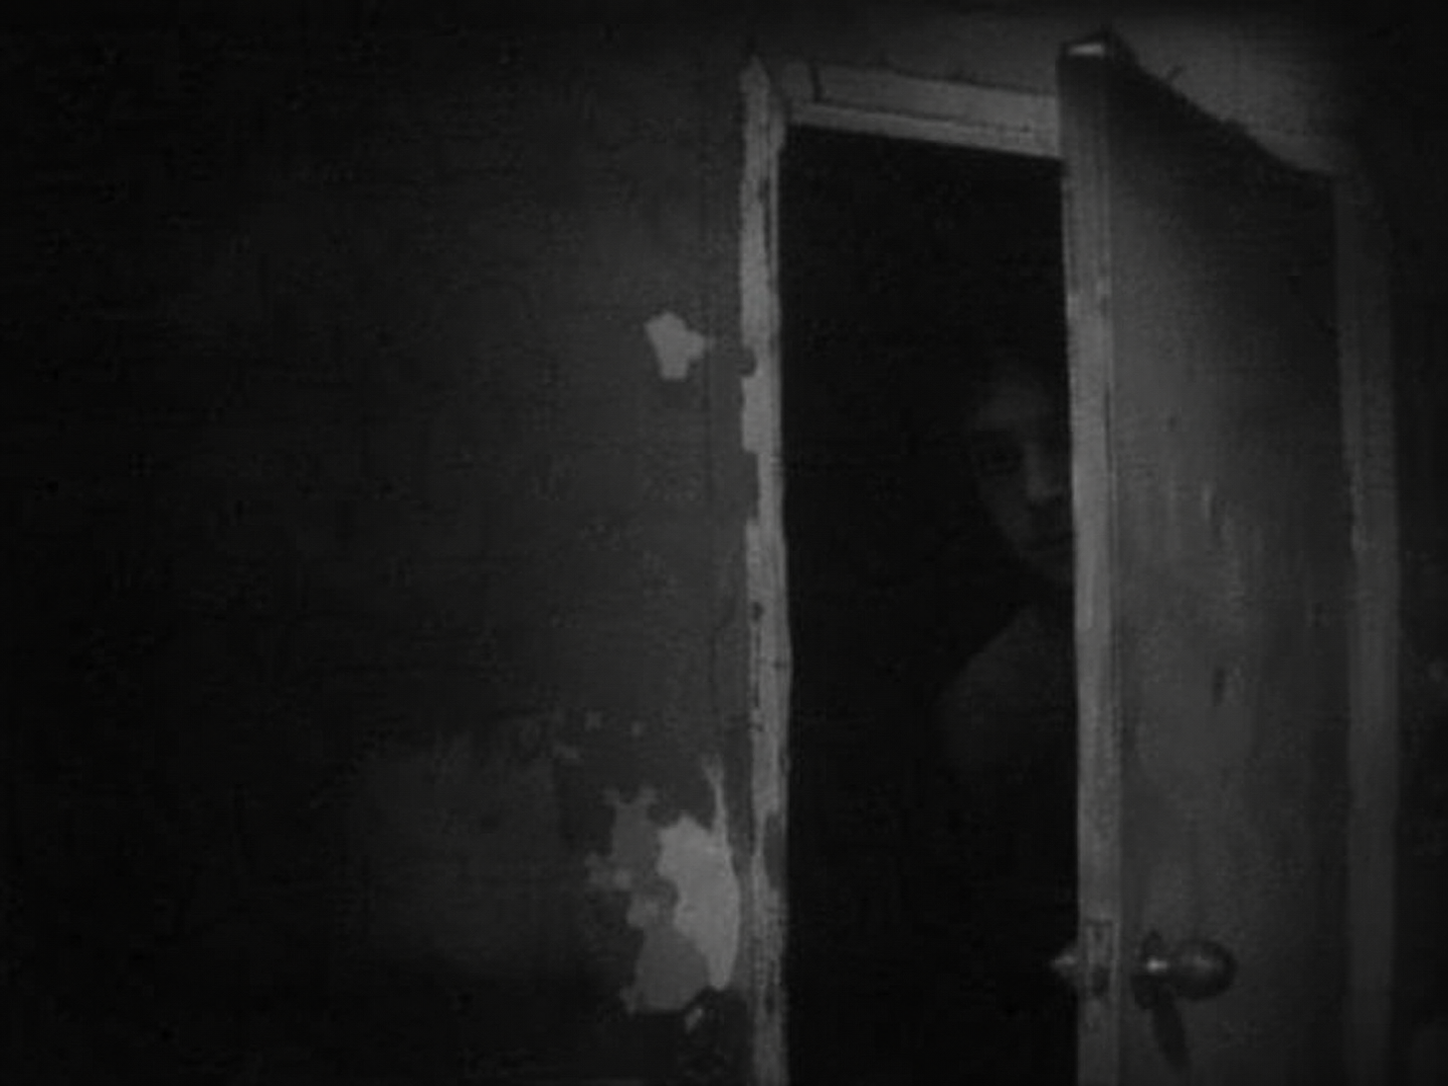
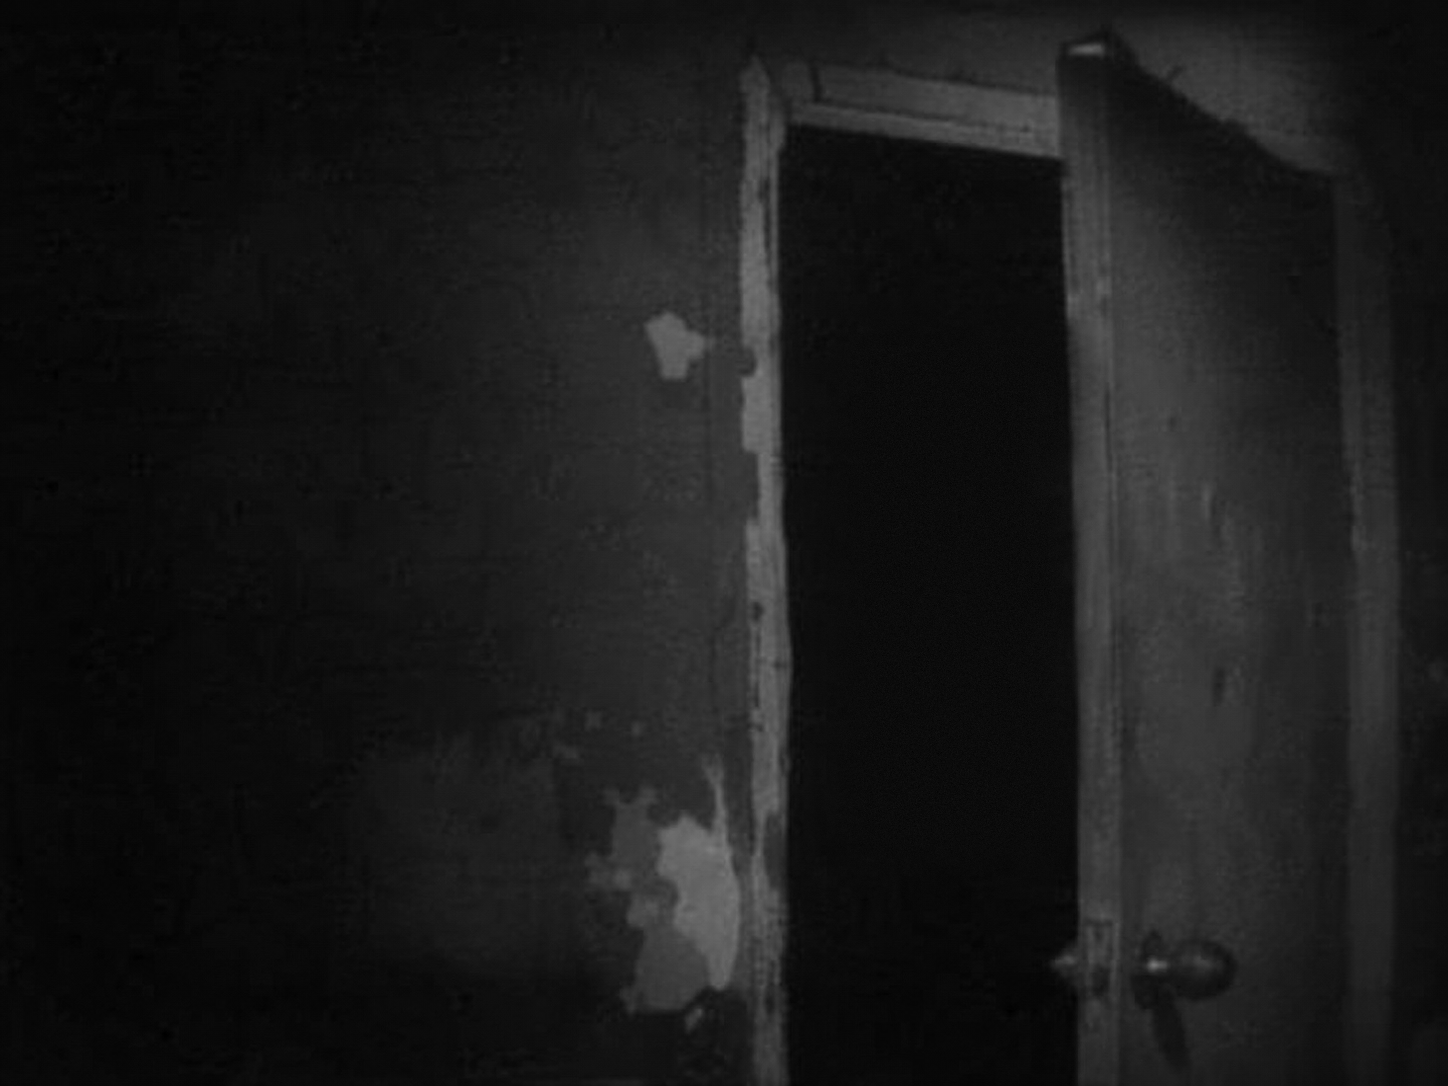
Give every tape a label and a reason to be where it is
Tapes now carry a found-footage label (CAM_09 · PASILLO B, CINTA 04 ·
DESDE EL FONDO DEL POZO, CINTA 06 · LA ÚLTIMA VISITA, CINTA 05 ·
SELLO, CINTA 03 · NO REPRODUCIR) that also says what the tape is
doing: "sintonizando…" while the heavy GIF downloads and "en pausa ·
calma" when it is held still on purpose, so a still never looks like
a broken GIF. GIFs start loading 240 px before they scroll into view.

The archive tape (static with a figure in it) becomes the live monitor
of camera 09 in corridor B, with REC and the camera's own clock. The
creature behind the interior is visible now, faintly breathing.

Changed region(s): [[0.6837, 0.3039, 0.7769, 0.7597]]

diff --git a/index.html b/index.html
@@ -9,10 +9,10 @@
   <meta name="description" content="Archivo residual de la Estación 09. La transmisión continúa.">
   <title>ESTACIÓN 09 — señal residual</title>
   <link rel="icon" href="assets/sigil.svg" type="image/svg+xml">
-  <link rel="stylesheet" href="style.css?v=referencias-6">
-  <script src="app.js?v=referencias-6" defer></script>
-  <link rel="stylesheet" href="interior.css?v=referencias-6">
-  <script src="interior.js?v=referencias-6" defer></script>
+  <link rel="stylesheet" href="style.css?v=lore-1">
+  <script src="app.js?v=lore-1" defer></script>
+  <link rel="stylesheet" href="interior.css?v=lore-1">
+  <script src="interior.js?v=lore-1" defer></script>
 </head>
 <body data-page="inicio">
   <a class="skip" href="#archivo">Saltar al archivo</a>
@@ -84,7 +84,7 @@
         </section>
         <section id="view-fragmentos" class="view">
           <div class="breadcrumb"><span>root / public / umbral</span><span class="file-id">[ E09—000 ]</span></div>
-          <figure class="rune-tape" data-reveal><img class="" src="assets/gif-stills/5.png" data-gif="gifs/giphy%20(5).gif" data-still="assets/gif-stills/5.png" width="380" height="380" alt="Un símbolo de trazos blancos que gira sobre una textura granulada." decoding="async"></figure><details class="vestiges"><summary>vestigios</summary><div class="vestige-wall">
+          <figure class="rune-tape" data-reveal data-tape="CINTA 05 · SELLO"><img class="" src="assets/gif-stills/5.png" data-gif="gifs/giphy%20(5).gif" data-still="assets/gif-stills/5.png" width="380" height="380" alt="Un símbolo de trazos blancos que gira sobre una textura granulada." decoding="async"></figure><details class="vestiges"><summary>vestigios</summary><div class="vestige-wall">
 <button data-vision="0cef067d6389316753e85350caa85388.jpg" aria-label="Observar vestigio 1"><img loading="lazy" src="images/0cef067d6389316753e85350caa85388.jpg" class="dark-source" alt=""></button>
 <button data-vision="2ce73613d01a7712d49bed29d90d0f45.jpg" aria-label="Observar vestigio 2"><img loading="lazy" src="images/2ce73613d01a7712d49bed29d90d0f45.jpg" class="ink-source" alt=""></button>
 <button data-vision="3e0d7102c286a0afe144cd9858fbc4d3.jpg" aria-label="Observar vestigio 3"><img loading="lazy" src="images/3e0d7102c286a0afe144cd9858fbc4d3.jpg" class="ink-source" alt=""></button>
@@ -118,12 +118,12 @@
           </details>
           <div class="bottom-note"><span>“No todo lo que está en la red quiere ser <a class="hidden-door" href="#descenso">encontrado</a>.”</span><span>ESTÁS EN LA CAPA 00</span></div>
         </section>
-        <section id="view-archivo" class="view" hidden><div class="breadcrumb"><span>root / public / archivo</span><span>[ E09—001 ]</span></div><div class="page-intro"><p class="eyebrow">fragmentos</p><h1>Lo que <em>queda.</em></h1><p>Los archivos no están ordenados. Algunos no quieren estarlo.</p></div><img class="archive-talisman ink-source" data-reveal src="images/8f0201d49a7c7816a5ed7256f6f4bee1.jpg" width="736" height="736" alt="Ojo encerrado en cinco pétalos oscuros."><div class="archive-transmission" data-reveal><img class="archive-tape" src="assets/gif-stills/1.png" data-gif="gifs/giphy%20(1).gif" data-still="assets/gif-stills/1.png" width="480" height="270" alt="Una secuencia deteriorada de ojos y texturas." decoding="async"></div><div id="archive-list"></div><p class="archive-foot">FIN DEL ÍNDICE RECUPERABLE · <span id="unlock-status">NIVEL 00</span></p></section>
-        <section id="view-transmisiones" class="view" hidden><div class="breadcrumb"><span>root / public / transmisiones</span><span>[ E09—002 ]</span></div><div class="page-intro"><p class="eyebrow">FRECUENCIA 09.8 / SEÑAL RESIDUAL</p><h1>¿Hay <em>alguien?</em></h1><p>Reproducción de la última transmisión. El receptor sigue abierto.</p></div><figure class="haunted-screen" data-reveal><button class="signal-reveal" aria-label="Sintonizar la imagen">⌁</button><span class="signal-word" role="status" hidden></span><img class="" src="assets/gif-stills/4.png" data-gif="gifs/giphy%20(4).gif" data-still="assets/gif-stills/4.png" width="480" height="270" alt="Una emisión en blanco y negro, con dibujos que atraviesan un monitor antiguo." decoding="async"></figure><div class="transmission"><div class="wave" aria-hidden="true"></div><p>17.11.1998 — 03:33:09</p><details class="lore-fold"><summary>lo recibido</summary><blockquote>«Si esto llega a alguien… no bajéis al subsuelo.<br>Lo que responde tiene nuestra voz.»</blockquote></details><button id="transmission-play" class="enter-button">ESCUCHAR FRECUENCIA <span>▷</span></button><small id="transmission-status" role="status">Audio sintetizado · volumen bajo recomendado.</small></div><details class="lore-fold"><summary>transcripción</summary><div class="transcript"><p><span>03:32:51</span> [interferencia]</p><p><span>03:33:02</span> ¿Por qué la cámara sigue grabando?</p><p><span>03:33:07</span> No somos nosotros.</p><p><span>03:33:09</span> [fin de la transmisión]</p></div></details></section>
-        <section id="view-visitantes" class="view" hidden><div class="breadcrumb"><span>root / public / visitantes</span><span>[ E09—003 ]</span></div><div class="page-intro"><p class="eyebrow">LIBRO DE VISITAS / COPIA LOCAL</p><h1>Deja una <em>señal.</em></h1><p>Para que alguien sepa que estuviste aquí.</p></div><img class="visitor-talisman ink-source" data-reveal src="images/bdd5c1dd86d84a0fc78f47a880610902.jpg" width="298" height="264" alt="Mano dibujada que encierra un ojo."><figure class="visitor-screen" data-reveal><img class="" src="assets/gif-stills/6.png" data-gif="gifs/giphy%20(6).gif" data-still="assets/gif-stills/6.png" width="384" height="384" alt="Una figura sentada, interrumpida por interferencias de cinta." decoding="async"></figure><div id="guest-messages" class="guest-messages"></div><form id="guest-form" class="guest-form"><label for="guest-name">ALIAS</label><input id="guest-name" name="alias" maxlength="32" placeholder="anónimo" autocomplete="off"><label for="guest-message">TU SEÑAL</label><textarea id="guest-message" name="message" maxlength="500" required rows="3" placeholder="¿También has oído algo?"></textarea><button type="submit" class="enter-button">DEJAR RASTRO <span>↗</span></button><small>Las señales nuevas se guardan solo en este navegador.</small><p id="guest-status" role="status"></p></form></section>
+        <section id="view-archivo" class="view" hidden><div class="breadcrumb"><span>root / public / archivo</span><span>[ E09—001 ]</span></div><div class="page-intro"><p class="eyebrow">fragmentos</p><h1>Lo que <em>queda.</em></h1><p>Los archivos no están ordenados. Algunos no quieren estarlo.</p></div><img class="archive-talisman ink-source" data-reveal src="images/8f0201d49a7c7816a5ed7256f6f4bee1.jpg" width="736" height="736" alt="Ojo encerrado en cinco pétalos oscuros."><div class="archive-transmission cam-monitor" data-reveal data-tape="CAM_09 · PASILLO B · EN DIRECTO"><img class="archive-tape" src="assets/gif-stills/1.png" data-gif="gifs/giphy%20(1).gif" data-still="assets/gif-stills/1.png" width="480" height="270" alt="La cámara del pasillo B en directo: estática y, en medio, una silueta que no se mueve." decoding="async"><span class="cam-rec" aria-hidden="true">● REC</span><span class="cam-time" aria-hidden="true">17.11.1998 <span class="cam-clock">03:33:09</span></span></div><div id="archive-list"></div><p class="archive-foot">FIN DEL ÍNDICE RECUPERABLE · <span id="unlock-status">NIVEL 00</span></p></section>
+        <section id="view-transmisiones" class="view" hidden><div class="breadcrumb"><span>root / public / transmisiones</span><span>[ E09—002 ]</span></div><div class="page-intro"><p class="eyebrow">FRECUENCIA 09.8 / SEÑAL RESIDUAL</p><h1>¿Hay <em>alguien?</em></h1><p>Reproducción de la última transmisión. El receptor sigue abierto.</p></div><figure class="haunted-screen" data-reveal data-tape="CINTA 04 · DESDE EL FONDO DEL POZO"><button class="signal-reveal" aria-label="Sintonizar la imagen">⌁</button><span class="signal-word" role="status" hidden></span><img class="" src="assets/gif-stills/4.png" data-gif="gifs/giphy%20(4).gif" data-still="assets/gif-stills/4.png" width="480" height="270" alt="Una emisión en blanco y negro, con dibujos que atraviesan un monitor antiguo." decoding="async"></figure><div class="transmission"><div class="wave" aria-hidden="true"></div><p>17.11.1998 — 03:33:09</p><details class="lore-fold"><summary>lo recibido</summary><blockquote>«Si esto llega a alguien… no bajéis al subsuelo.<br>Lo que responde tiene nuestra voz.»</blockquote></details><button id="transmission-play" class="enter-button">ESCUCHAR FRECUENCIA <span>▷</span></button><small id="transmission-status" role="status">Audio sintetizado · volumen bajo recomendado.</small></div><details class="lore-fold"><summary>transcripción</summary><div class="transcript"><p><span>03:32:51</span> [interferencia]</p><p><span>03:33:02</span> ¿Por qué la cámara sigue grabando?</p><p><span>03:33:07</span> No somos nosotros.</p><p><span>03:33:09</span> [fin de la transmisión]</p></div></details></section>
+        <section id="view-visitantes" class="view" hidden><div class="breadcrumb"><span>root / public / visitantes</span><span>[ E09—003 ]</span></div><div class="page-intro"><p class="eyebrow">LIBRO DE VISITAS / COPIA LOCAL</p><h1>Deja una <em>señal.</em></h1><p>Para que alguien sepa que estuviste aquí.</p></div><img class="visitor-talisman ink-source" data-reveal src="images/bdd5c1dd86d84a0fc78f47a880610902.jpg" width="298" height="264" alt="Mano dibujada que encierra un ojo."><figure class="visitor-screen" data-reveal data-tape="CINTA 06 · LA ÚLTIMA VISITA"><img class="" src="assets/gif-stills/6.png" data-gif="gifs/giphy%20(6).gif" data-still="assets/gif-stills/6.png" width="384" height="384" alt="Una figura sentada, interrumpida por interferencias de cinta." decoding="async"></figure><div id="guest-messages" class="guest-messages"></div><form id="guest-form" class="guest-form"><label for="guest-name">ALIAS</label><input id="guest-name" name="alias" maxlength="32" placeholder="anónimo" autocomplete="off"><label for="guest-message">TU SEÑAL</label><textarea id="guest-message" name="message" maxlength="500" required rows="3" placeholder="¿También has oído algo?"></textarea><button type="submit" class="enter-button">DEJAR RASTRO <span>↗</span></button><small>Las señales nuevas se guardan solo en este navegador.</small><p id="guest-status" role="status"></p></form></section>
         <section id="view-descenso" class="view descent" hidden aria-labelledby="descent-title"><h1 id="descent-title" class="visually-hidden">El descenso</h1><div class="descent-sigils" aria-hidden="true"><span>ᛉ</span><span>ᚦ</span><span>ᛇ</span><span>ᛟ</span></div><div class="descent-panel intro" data-reveal><p>Ｌａ　Ｅｓｔａｃｉóｎ　０９　ｓｏｌｏ　ｐｕｅｄｅ　ｒｅｃｏｒｒｅｒｓｅ　ｈａｃｉａ　ａｂａｊｏ．</p><p>Ｃｌａｓｉｆｉｃａｃｉóｎ　ａｃｔｕａｌ　ｄｅ　ｌａ　ｓｏｎｄａ：　００．</p></div><div class="descent-gap" style="--gap:2" aria-hidden="true"></div><div class="descent-panel " data-reveal><p>Ｎｏ　ｔｉｅｎｅｓ　ｎｉｎｇｕｎａ　ｐｏｓｉｂｉｌｉｄａｄ　ｄｅ　ｓａｌｉｒ　ｄｅ　ａｑｕí．</p><p>Ｖｕｅｌｖｅ　ａｔｒáｓ　ａｈｏｒａ，　ｍｉｅｎｔｒａｓ　ｑｕｅｄａ　ｔｉｅｍｐｏ．</p></div><div class="descent-gap" style="--gap:1" aria-hidden="true"></div><div class="descent-panel " data-reveal><p>Este lugar quiere quedarse contigo.</p><p>Vuelve atrás.</p></div><div class="descent-gap" style="--gap:6" aria-hidden="true"></div><div class="descent-panel " data-reveal><p>Ｖｕｅｌｖｅ　ａｔｒáｓ．　Ｅｓｔｏ　ｅｓ　ｕｎ　［ＣＡＬＬＥＪÓＮ　ＳＩＮ　ＳＡＬＩＤＡ］．</p></div><div class="descent-gap" style="--gap:4" aria-hidden="true"></div><div class="descent-panel c1" data-reveal><p>Ｖｕｅｌｖｅ　ａｔｒáｓ．　Ｅｓｔｏ　ｅｓ　ｕｎ　［ＣＡＬＬＥＪÓＮ　ＳＩＮ　ＳＡＬＩＤＡ］．</p></div><div class="descent-gap" style="--gap:4" aria-hidden="true"></div><div class="descent-panel c2" data-reveal><p>Ｖｕｅｌｖｅ　ａｔｒáｓ．　Ｅｓｔｏ　ｅｓ　ｕｎ　［ＣＡＬＬＥＪÓＮ　ＳＩＮ　ＳＡＬＩＤＡ］．</p></div><div class="descent-gap" style="--gap:4" aria-hidden="true"></div><div class="descent-panel c2" data-reveal><p>Ｖｕｅｌｖｅ　ａｔｒáｓ．　Ｅｓｔｏ　ｅｓ　ｕｎ　［Ｅ０９—ＮＵＬＬ］．</p></div><div class="descent-gap" style="--gap:5" aria-hidden="true"></div><div class="eye-strips" data-reveal aria-hidden="true"><div class="eye-strip strip-1"></div><div class="eye-strip strip-2"></div><div class="eye-strip strip-3"></div><div class="eye-strip strip-4"></div><div class="eye-strip strip-5"></div><div class="eye-strip strip-6"></div></div><div class="descent-gap" style="--gap:5" aria-hidden="true"></div><div class="descent-row" data-reveal><span class="descent-chip">［ＣＡＬＬＥＪÓＮ　ＳＩＮ　ＳＡＬＩＤＡ］</span><span class="descent-chip">［ＣＡＬＬＥＪÓＮ　ＳＩＮ　ＳＡＬＩＤＡ］</span><span class="descent-chip">［ＣＡＬＬＥＪÓＮ　ＳＩＮ　ＳＡＬＩＤＡ］</span></div><div class="descent-gap" style="--gap:3" aria-hidden="true"></div><div class="descent-panel c3 empty" data-reveal><p>［　］</p></div><div class="descent-panel c3 empty" data-reveal><p>［　］</p></div><div class="descent-panel c3 empty" data-reveal><p>［　］</p></div><div class="descent-gap" style="--gap:9" aria-hidden="true"></div><div class="descent-panel c4" data-reveal><p>Por favor, vuelve A T R Á S</p><p>＜＼Ｖ＼Ｕ＼Ｅ｜Ｌ／Ｖ／Ｅ／＞</p><p>［Ｉｎｔｅｎｔａｎｄｏ．．．］</p><p>S Á R T A  evleuv ,rovaf roP</p></div><div class="descent-gap" style="--gap:11" aria-hidden="true"></div><div class="descent-panel reveal-end" data-reveal><p>Ｅｓｔａｃｉóｎ　０９</p><p>Reanimada por el último operador.</p><p>Turno de noche. 03:33.</p><p class="descent-coda">Ya no te pedimos que vuelvas.</p><p class="descent-coda"><a class="hidden-door" href="#estatua" aria-label="Seguir">∴</a></p></div><div class="descent-gap" style="--gap:2" aria-hidden="true"></div><a class="return-threshold" href="#inicio">↶ umbral</a></section>
         <section id="view-estatua" class="view statue-room" hidden aria-labelledby="statue-title"><h1 id="statue-title" class="statue-title">ｅｓｔａｔｕａ　０１</h1><canvas id="statue-canvas" class="statue-canvas" width="630" height="840" role="img" aria-label="Un busto de mármol dibujado en una trama de puntos de monitor; gira despacio y vuelve la cara hacia el cursor."></canvas><p class="statue-note">Nadie recuerda quién la trajo.<br>Se gira cuando dejas de mirarla.</p><a class="return-threshold" href="#descenso">↶ subir</a></section>
-        <section id="view-subsuelo" class="view" hidden><div class="breadcrumb"><span>root / private / subsuelo</span><span>[ E09—004 ]</span></div><div class="page-intro"><p class="eyebrow red">NO HAY MÁS PUERTAS</p><h1>Te estábamos <em>esperando.</em></h1><p>La señal no venía del exterior.</p></div><div class="subsoil"><button class="tape-trigger" data-reveal data-tape-play aria-pressed="false" aria-label="Reproducir o detener la aparición de la cinta"><img class="unstable-tape" src="assets/gif-stills/3.png" data-gif="gifs/giphy%20(3).gif" data-still="assets/gif-stills/3.png" width="400" height="518" data-explicit="true" alt="Una figura inmóvil en un bosque, interrumpida por cortes de cinta." decoding="async"><span class="tape-play-mark" aria-hidden="true">▷</span></button><img class="abstract-form ink-source" src="images/8f0201d49a7c7816a5ed7256f6f4bee1.jpg" width="736" height="736" alt="Una forma de cinco lóbulos con un ojo en su interior."><details class="lore-fold"><summary>lo que ocurrió</summary><p>El 17 de noviembre de 1998 desconectamos la estación.<br>La transmisión continuó durante nueve minutos.<br>Después, alguien empezó a contestar.</p><p class="red">Ahora ya sabes de dónde viene tu eco.</p></details><button class="enter-button" id="reset-session">CERRAR LA CONEXIÓN <span>×</span></button></div></section>
+        <section id="view-subsuelo" class="view" hidden><div class="breadcrumb"><span>root / private / subsuelo</span><span>[ E09—004 ]</span></div><div class="page-intro"><p class="eyebrow red">NO HAY MÁS PUERTAS</p><h1>Te estábamos <em>esperando.</em></h1><p>La señal no venía del exterior.</p></div><div class="subsoil"><button class="tape-trigger" data-reveal data-tape="CINTA 03 · NO REPRODUCIR" data-tape-play aria-pressed="false" aria-label="Reproducir o detener la aparición de la cinta"><img class="unstable-tape" src="assets/gif-stills/3.png" data-gif="gifs/giphy%20(3).gif" data-still="assets/gif-stills/3.png" width="400" height="518" data-explicit="true" alt="Una figura inmóvil en un bosque, interrumpida por cortes de cinta." decoding="async"><span class="tape-play-mark" aria-hidden="true">▷</span></button><img class="abstract-form ink-source" src="images/8f0201d49a7c7816a5ed7256f6f4bee1.jpg" width="736" height="736" alt="Una forma de cinco lóbulos con un ojo en su interior."><details class="lore-fold"><summary>lo que ocurrió</summary><p>El 17 de noviembre de 1998 desconectamos la estación.<br>La transmisión continuó durante nueve minutos.<br>Después, alguien empezó a contestar.</p><p class="red">Ahora ya sabes de dónde viene tu eco.</p></details><button class="enter-button" id="reset-session">CERRAR LA CONEXIÓN <span>×</span></button></div></section>
       </main>
       <aside class="sidebar" aria-label="Navegación del archivo">
         <div class="section-label">// sobre este nodo</div>

diff --git a/app.js b/app.js
@@ -221,6 +221,7 @@ setInterval(() => {
   seconds++; const stamp = new Date(seconds * 1000).toISOString().slice(11, 19);
   $('#session-clock').textContent = stamp + ' / SESIÓN LOCAL';
   $('#camera-clock').textContent = '03:33:' + String((9 + Math.floor(seconds / 3)) % 60).padStart(2, '0');
+  document.querySelectorAll('.cam-clock').forEach(clock => { clock.textContent = $('#camera-clock').textContent; });
   if (seconds === 35) $('#log-whisper').textContent = 'no has cerrado la ventana_';
   if (seconds === 90) $('#log-whisper').textContent = 'el silencio también responde_';
 }, 1000);
@@ -310,17 +311,32 @@ document.addEventListener('keydown', event => { if (event.key === 'Escape') dism
 document.addEventListener('visibilitychange', () => { if (document.hidden) dismissOmen(); });
 // GIFs load and animate only while visible; stills are real browser captures of each original.
 const watchedGIFs = new Map();
+// Each tape says what it is doing, so a still never looks like a broken GIF: "sintonizando…"
+// while the (heavy) GIF downloads, "en pausa · calma" when it is held still on purpose.
 function refreshGIF(image) {
   const visible = watchedGIFs.get(image);
-  const allowed = visible && !document.hidden && omensEnabled && !motionQuery.matches &&
+  const quiet = !omensEnabled || motionQuery.matches;
+  const allowed = visible && !document.hidden && !quiet &&
     (image.dataset.explicit !== 'true' || image.dataset.playing === 'true');
   const source = allowed ? image.dataset.gif : image.dataset.still;
-  if (image.getAttribute('src') !== source) image.setAttribute('src', source);
+  const tape = image.closest('[data-tape]');
+  if (image.getAttribute('src') !== source) {
+    if (tape && source === image.dataset.gif) tape.classList.add('is-tuning');
+    image.setAttribute('src', source);
+  }
+  if (tape) {
+    if (source !== image.dataset.gif) tape.classList.remove('is-tuning');
+    tape.classList.toggle('is-paused', quiet && image.dataset.explicit !== 'true');
+  }
 }
+document.addEventListener('load', event => {
+  const image = event.target;
+  if (image instanceof HTMLImageElement && image.dataset.gif && image.getAttribute('src') === image.dataset.gif) image.closest('[data-tape]')?.classList.remove('is-tuning');
+}, true);
 function refreshGIFs() { for (const image of watchedGIFs.keys()) refreshGIF(image); }
 const gifObserver = new IntersectionObserver(entries => {
   for (const entry of entries) { watchedGIFs.set(entry.target, entry.isIntersecting); refreshGIF(entry.target); }
-}, { threshold: .05 });
+}, { threshold: .05, rootMargin: '240px 0px' });
 function registerGIFs(root = document) {
   root.querySelectorAll('img[data-gif]').forEach(image => {
     if (watchedGIFs.has(image)) return;

diff --git a/style.css b/style.css
@@ -311,3 +311,21 @@ body[data-page="estatua"] .masthead,body[data-page="estatua"] .main-nav,body[dat
 .statue-title{margin:0;font:11px/1.6 'Courier New',monospace;letter-spacing:.3em;color:#8e8e86;text-shadow:none}
 .statue-canvas{display:block;width:min(420px,84vw);height:auto;aspect-ratio:3/4;background:#000;box-shadow:0 0 60px 20px #000;filter:contrast(1.05)}
 .statue-note{margin:0;font:11px/2 'Courier New',monospace;letter-spacing:.14em;color:#9a9a91}
+/* Tapes say what they are: a found-footage label, "sintonizando…" while the heavy GIF downloads,
+   "en pausa · calma" when it is held still on purpose. */
+[data-tape]::before{content:attr(data-tape);position:absolute;left:8px;top:7px;z-index:3;max-width:calc(100% - 16px);padding:1px 7px;background:#000000b8;font:9px/1.6 'Courier New',monospace;letter-spacing:.14em;color:#d6d6cc;text-align:left;white-space:nowrap;overflow:hidden;text-overflow:ellipsis;pointer-events:none}
+[data-tape].is-tuning::before{content:attr(data-tape) "  ·  SINTONIZANDO…"}
+[data-tape].is-paused::before{content:attr(data-tape) "  ·  EN PAUSA · CALMA"}
+[data-tape].is-tuning img{filter:grayscale(1) brightness(.45) blur(1px)!important;transition:filter .6s}
+/* The archive's tape is the live feed of camera 09: a monitor, not a loose picture. */
+.cam-monitor{width:min(460px,100%)!important;margin:0 0 34px!important;rotate:-.6deg!important;opacity:1!important;padding:10px;background:#0b0b0a;border:1px solid #2b2b28;box-shadow:inset 0 0 30px #000,0 10px 30px #000}
+.cam-monitor .archive-tape{filter:grayscale(1) brightness(.8) contrast(1.15);-webkit-mask-image:none;mask-image:none;border-radius:6px/10px}
+.cam-rec{position:absolute;right:16px;top:16px;z-index:3;font:9px/1 'Courier New',monospace;letter-spacing:.2em;color:#e0e0d6;animation:rec-pulse 2s steps(2) infinite}
+.cam-time{position:absolute;right:16px;bottom:16px;z-index:3;font:9px/1 'Courier New',monospace;letter-spacing:.12em;color:#c8c8be;text-shadow:0 0 4px #000}
+@keyframes rec-pulse{50%{opacity:.25}}
+body.quiet .cam-rec{animation:none}
+/* The creature behind the interior is meant to be seen, faintly, breathing. */
+#view-interior .chamber-haze{opacity:.36;animation:haze-breathe 9s ease-in-out infinite}
+@keyframes haze-breathe{0%,100%{scale:1}50%{scale:1.06}}
+body.quiet #view-interior .chamber-haze{animation:none}
+@media(max-width:540px){.cam-monitor{width:100%!important;padding:6px;clear:both}[data-tape]::before{font-size:8px;letter-spacing:.08em}}
